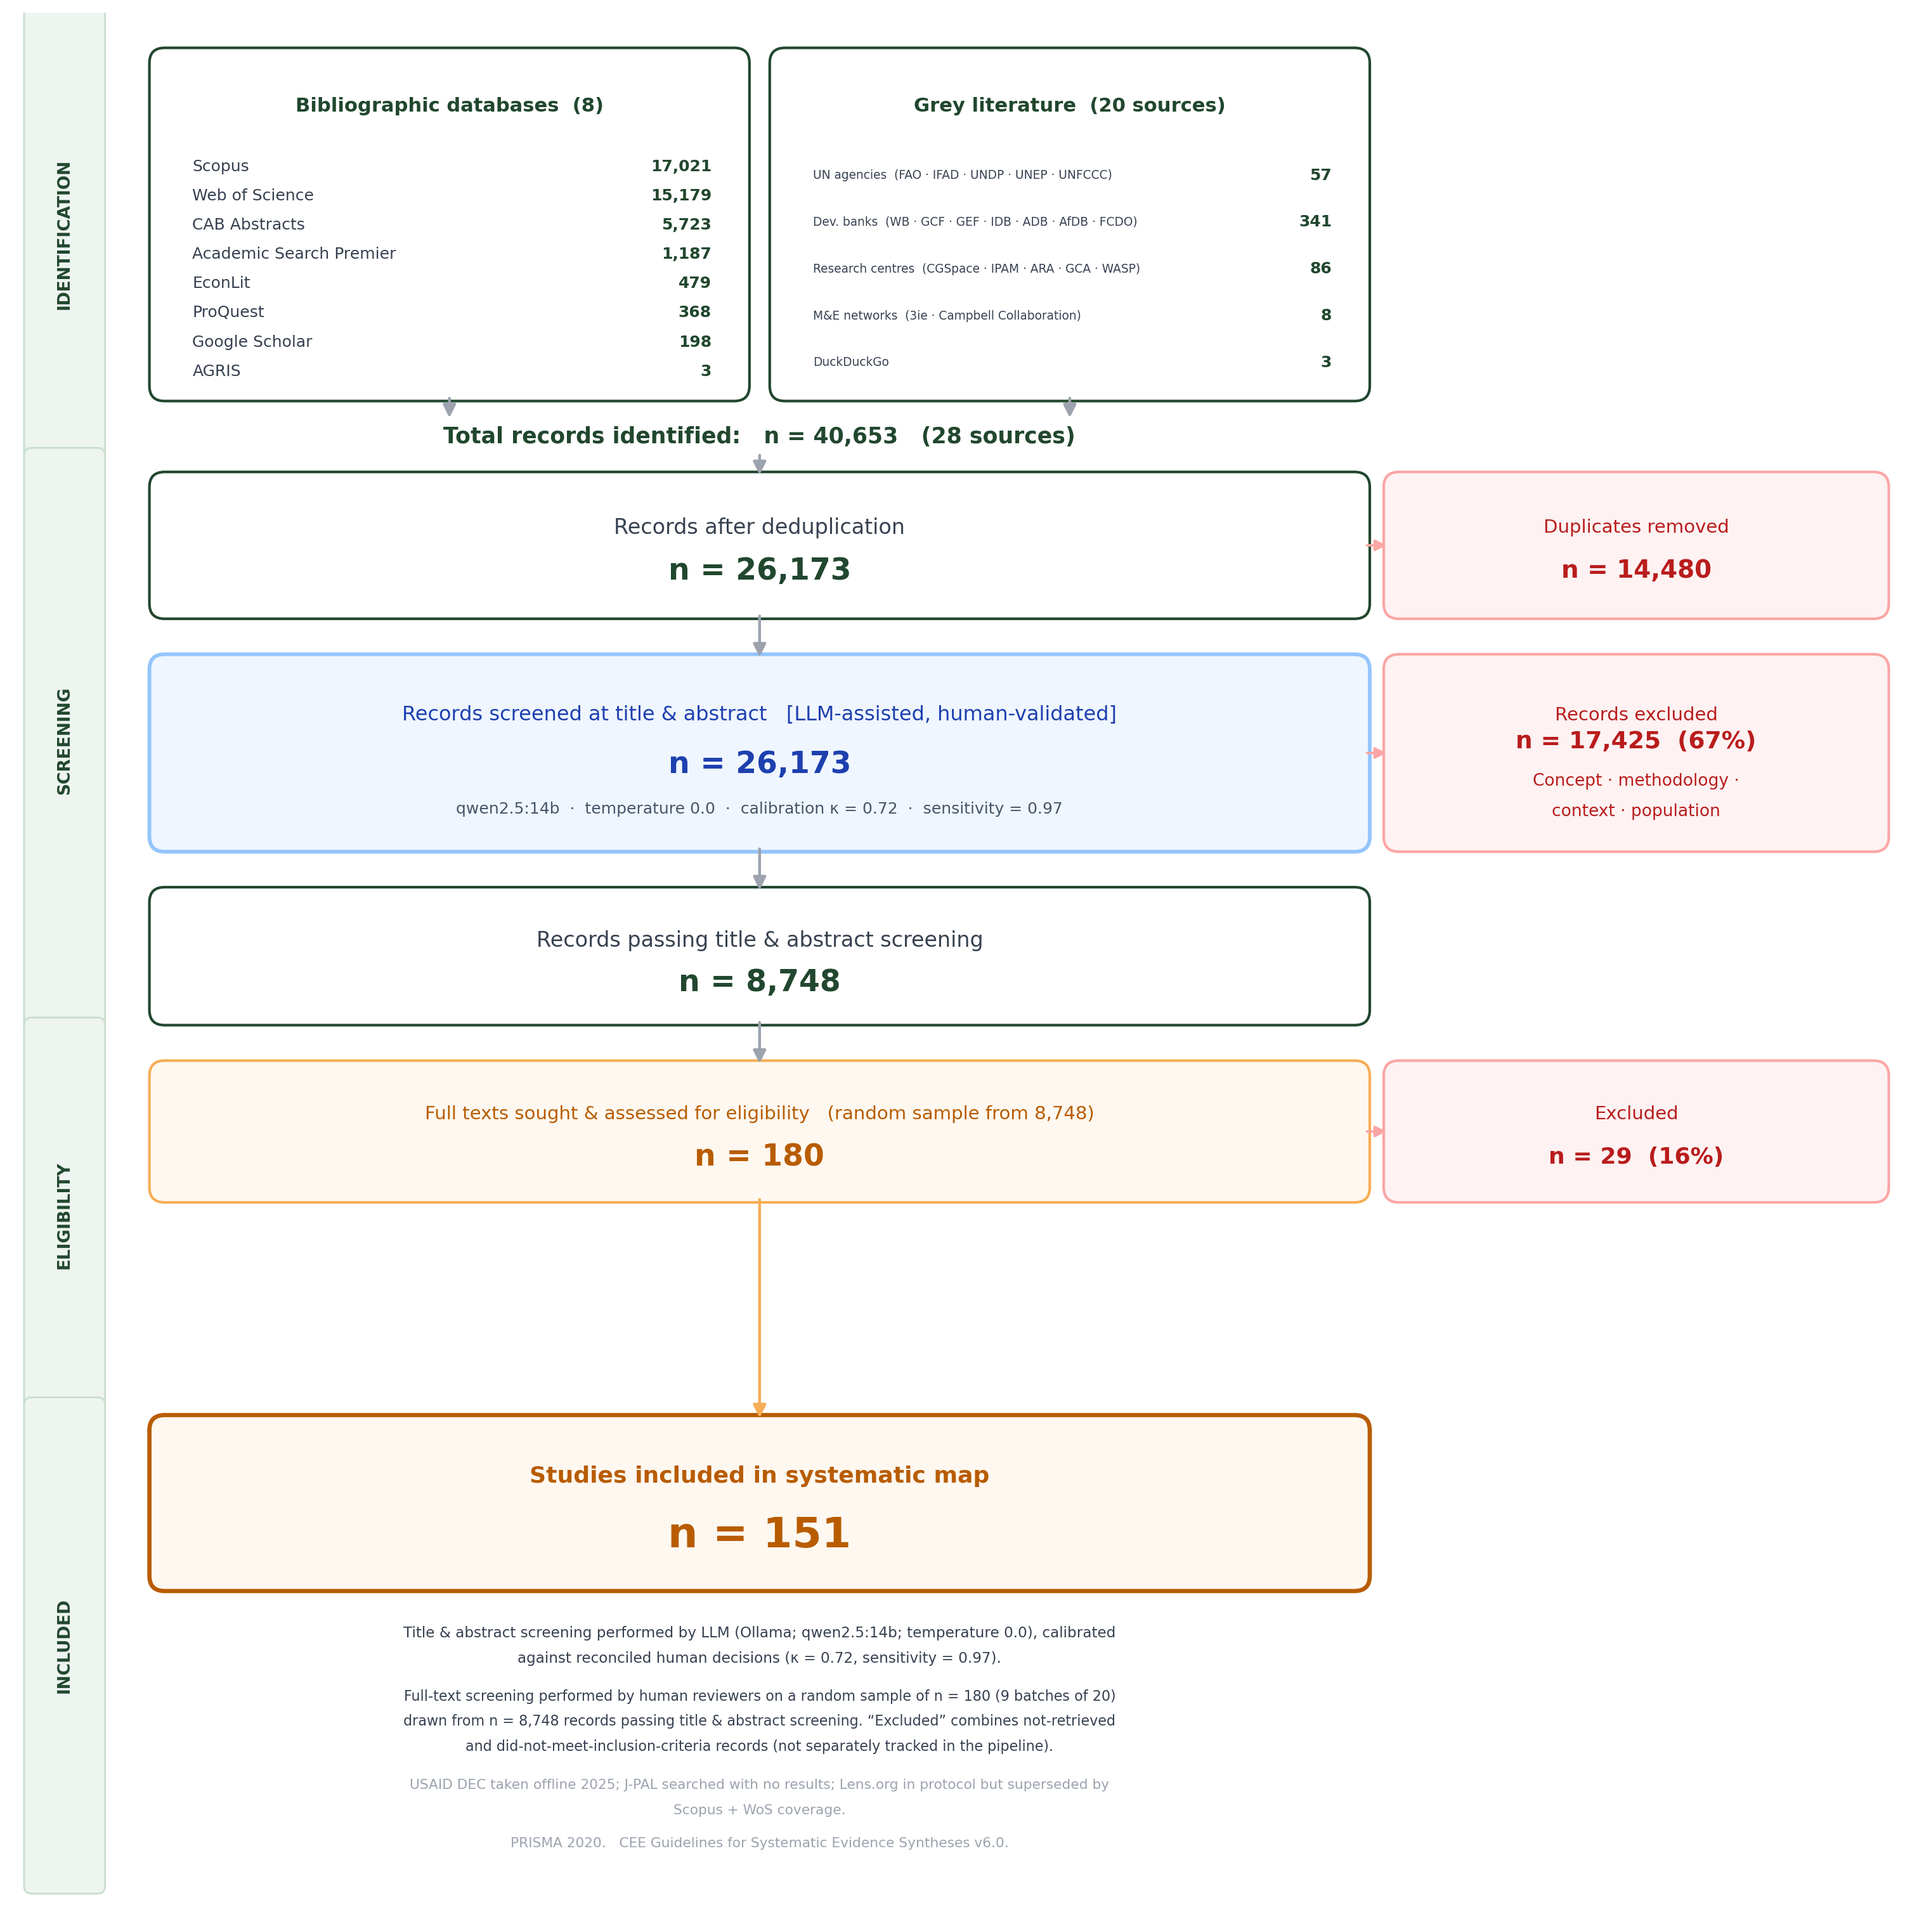
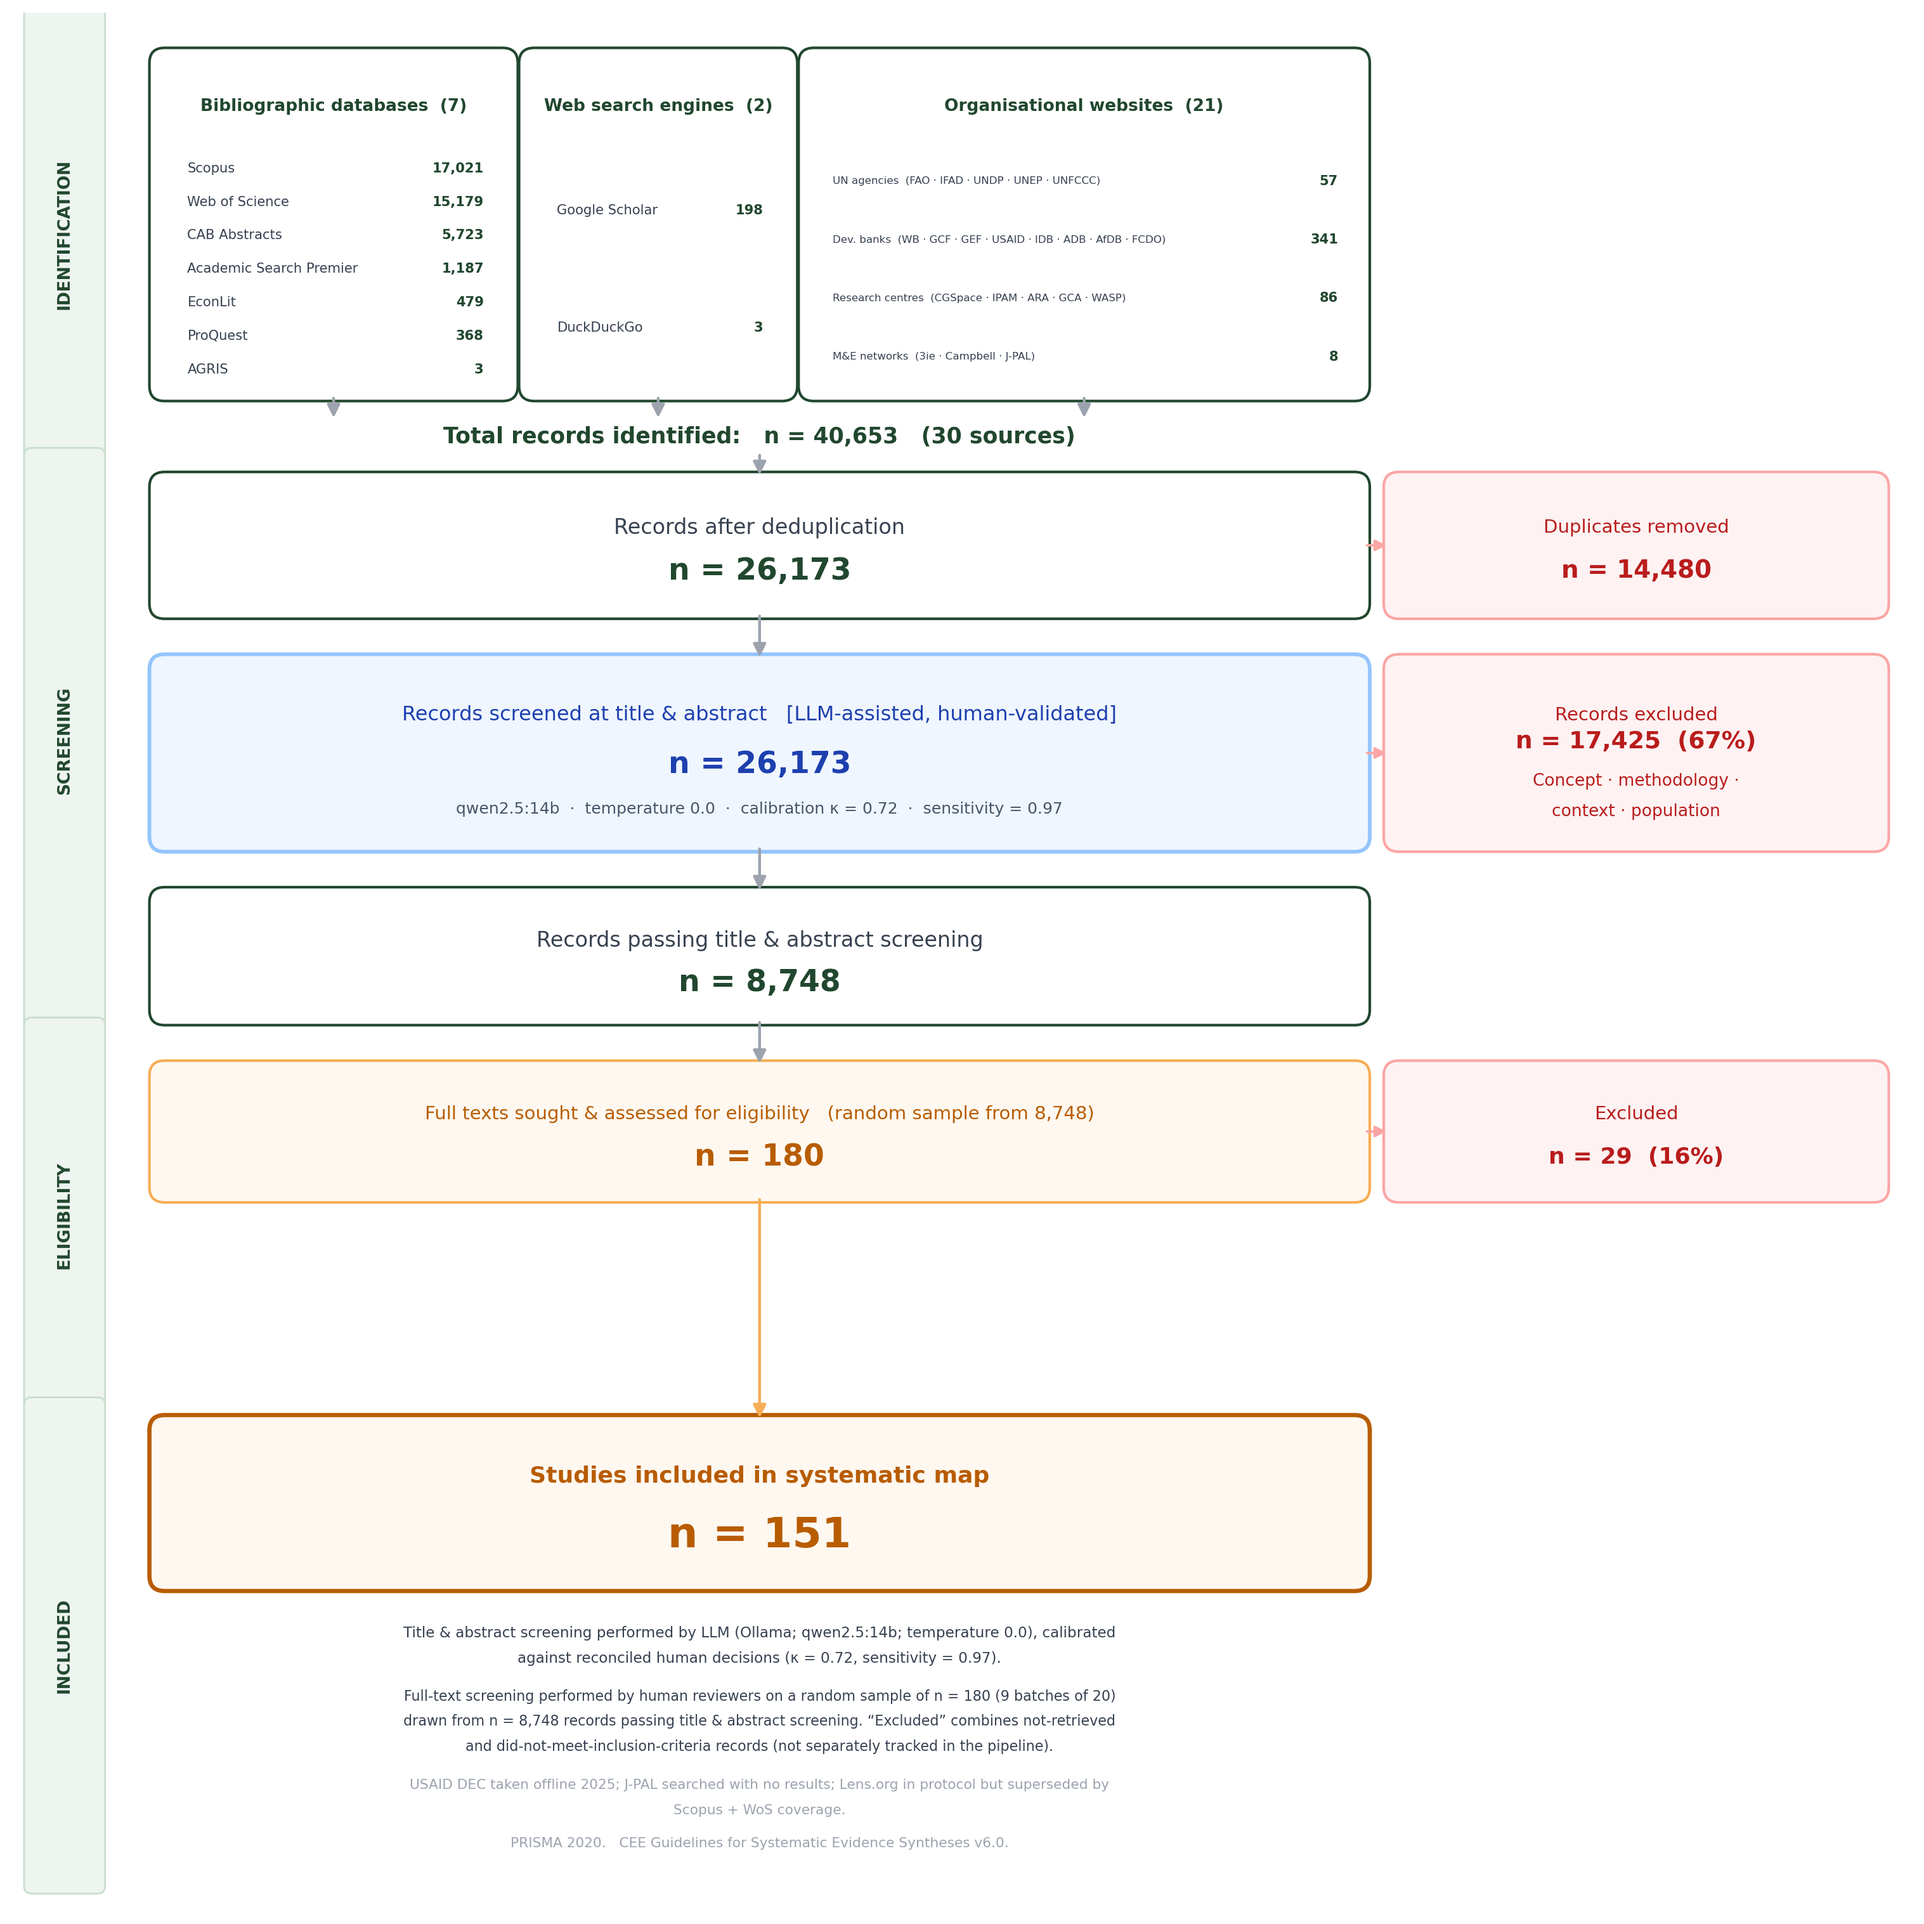
Split PRISMA identification sources into three ROSES categories
Bibliographic databases, web search engines, and organisational websites
are now shown as separate groups (7 / 2 / 21) instead of a combined
databases/grey-lit split (8 / 20), matching the methods text and ROSES
table. USAID and J-PAL (zero-yield searches) are now included in the
organisational-website source count, consistent with what was actually
searched.

diff --git a/deliverables/_gen_prisma.py b/deliverables/_gen_prisma.py
@@ -61,39 +61,51 @@ SCOPUS_RETURNED = step2b["scopus_corpus_size"]
 BY_DB = step2b["by_database_imported"]
 
 NAMED_DBS = ["Web of Science", "CAB Abstracts", "Academic Search Premier",
-             "EconLit", "ProQuest", "Google Scholar", "AGRIS"]
+             "EconLit", "ProQuest", "AGRIS"]
 db = [("Scopus", SCOPUS_RETURNED)] + [(nm, BY_DB[nm]) for nm in NAMED_DBS]
 
-# Grouping of grey-lit sources into display categories — this categorisation
-# (which source goes under which label) is a content choice; the NUMBERS are
-# always summed live from step2b_summary.json, never typed in.
+# Web-based search engines — its own ROSES/CEE category, separate from both
+# bibliographic databases and organisational websites (matches §8.3 of the
+# methods text).
+WEB_ENGINES = ["Google Scholar", "DuckDuckGo"]
+we = [(nm, BY_DB[nm]) for nm in WEB_ENGINES]
+WEB_ENGINES_TOTAL = sum(n for _, n in we)
+
+# Organisational-website groups (§8.4). Two sources — USAID and J-PAL — were
+# genuinely searched but returned zero records, so they never appear in
+# step2b_summary.json's by_database_imported dict (nothing to sum). They are
+# added back in explicitly here at n=0 so the source COUNT matches the
+# methods text (21 organisational websites), even though they contribute
+# nothing to the record TOTAL.
+ZERO_YIELD_SOURCES = {"USAID", "J-PAL"}
 GREY_LIT_GROUPS = {
     "UN agencies  (FAO · IFAD · UNDP · UNEP · UNFCCC)":
         ["FAO", "IFAD", "UNDP", "UNEP", "UNFCCC"],
-    "Dev. banks  (WB · GCF · GEF · IDB · ADB · AfDB · FCDO)":
-        ["World Bank", "GEF", "GCF", "IDB", "ADB", "AfDB", "FCDO"],
+    "Dev. banks  (WB · GCF · GEF · USAID · IDB · ADB · AfDB · FCDO)":
+        ["World Bank", "GEF", "GCF", "USAID", "IDB", "ADB", "AfDB", "FCDO"],
     "Research centres  (CGSpace · IPAM · ARA · GCA · WASP)":
         ["CGSpace (CGIAR)", "IPAM", "Adaptation Research Alliance", "GCA", "WASP"],
-    "M&E networks  (3ie · Campbell Collaboration)":
-        ["3ie", "Campbell Collaboration"],
-    "DuckDuckGo": ["DuckDuckGo"],
+    "M&E networks  (3ie · Campbell · J-PAL)":
+        ["3ie", "Campbell Collaboration", "J-PAL"],
 }
-grey_lit_keys = set(BY_DB) - set(NAMED_DBS)
+grey_lit_keys = (set(BY_DB) - set(NAMED_DBS) - set(WEB_ENGINES)) | ZERO_YIELD_SOURCES
 grouped_keys = {k for grp in GREY_LIT_GROUPS.values() for k in grp}
 assert grey_lit_keys == grouped_keys, (
-    f"Grey-lit source list in step2b_summary.json no longer matches the "
+    f"Organisational-website source list no longer matches the "
     f"GREY_LIT_GROUPS mapping in this script — new/removed source(s): "
-    f"{grey_lit_keys ^ grouped_keys}. Update GREY_LIT_GROUPS above."
+    f"{grey_lit_keys ^ grouped_keys}. Update GREY_LIT_GROUPS (and "
+    f"ZERO_YIELD_SOURCES, if a zero-record source was added/removed) above."
 )
-gl = [(label, sum(BY_DB[k] for k in keys)) for label, keys in GREY_LIT_GROUPS.items()]
+gl = [(label, sum(BY_DB.get(k, 0) for k in keys)) for label, keys in GREY_LIT_GROUPS.items()]
 GREY_LIT_TOTAL = sum(n for _, n in gl)
 
-N_DATABASES = len(db)              # 8
-N_GREY_SOURCES = len(grey_lit_keys)  # 20
-N_SOURCES = N_DATABASES + N_GREY_SOURCES
+N_DATABASES = len(db)                  # 7
+N_WEB_ENGINES = len(WEB_ENGINES)        # 2
+N_GREY_SOURCES = len(grey_lit_keys)      # 21
+N_SOURCES = N_DATABASES + N_WEB_ENGINES + N_GREY_SOURCES
 
 IDENTIFIED_TOTAL = SCOPUS_RETURNED + sum(BY_DB.values())
-assert IDENTIFIED_TOTAL == sum(n for _, n in db) + GREY_LIT_TOTAL
+assert IDENTIFIED_TOTAL == sum(n for _, n in db) + WEB_ENGINES_TOTAL + GREY_LIT_TOTAL
 
 # ── DEDUPLICATION ────────────────────────────────────────────────────────────
 # rows_total in each screening meta file = the exact record count that fed
@@ -156,11 +168,20 @@ EX  = MR + 0.35                     # = 10.95
 EW  = 3.75                          # right edge = 14.70 (< FW=15 ✓)
 EC  = EX + EW / 2                   # = 12.825
 
-# Source boxes (identification): together span exactly MX to MR, with a wider
-# gap between them for visual separation
-ID_GAP = 0.40
-AX, AW = MX, (MW - ID_GAP) / 2     # = 1.20, 4.50   right = 5.70
-BX, BW = MX + AW + ID_GAP, AW      # = 6.10, 4.50   right = 10.60
+# Source boxes (identification): three columns — bibliographic databases,
+# web-based search engines, organisational websites — together spanning
+# exactly MX to MR. Widths are uneven on purpose: the organisational-websites
+# column has the longest row labels (grouped, multi-org parenthetical lists)
+# so it gets more room; web engines only ever lists two short names so it
+# gets the least.
+ID_GAP = 0.25
+BOXES_W = MW - 2 * ID_GAP           # = 8.90  (total width to split 3 ways)
+AW = 0.30 * BOXES_W                  # bibliographic databases
+BW = 0.22 * BOXES_W                  # web search engines
+CW = BOXES_W - AW - BW               # organisational websites (remainder, largest)
+AX = MX
+BX = AX + AW + ID_GAP
+CX = BX + BW + ID_GAP
 
 # ── Vertical constants ────────────────────────────────────────────────────────
 GAP  = 0.52     # gap between consecutive boxes
@@ -275,27 +296,37 @@ band( 0.2,  4.0, "INCLUDED")
 
 bx(AX, SRC_Y, AW, SRC_H, ec=G)
 tx(AX + AW/2, SRC_Y+SRC_H-0.34, f"Bibliographic databases  ({N_DATABASES})",
-   fs=11, bold=True, c=G)
+   fs=9.5, bold=True, c=G)
 rh = (SRC_H - 0.70) / len(db)
 for i, (nm, n) in enumerate(db):
     ry = SRC_Y + SRC_H - 0.70 - (i + 0.5) * rh
-    tx(AX + 0.22, ry, nm, fs=9, c=DRK, ha="left")
-    tx(AX + AW - 0.18, ry, fmt(n), fs=9, c=G, bold=True, ha="right")
+    tx(AX + 0.18, ry, nm, fs=7.6, c=DRK, ha="left")
+    tx(AX + AW - 0.15, ry, fmt(n), fs=7.6, c=G, bold=True, ha="right")
 
 bx(BX, SRC_Y, BW, SRC_H, ec=G)
-tx(BX + BW/2, SRC_Y+SRC_H-0.34, f"Grey literature  ({N_GREY_SOURCES} sources)",
-   fs=11, bold=True, c=G)
+tx(BX + BW/2, SRC_Y+SRC_H-0.34, f"Web search engines  ({N_WEB_ENGINES})",
+   fs=9.5, bold=True, c=G)
+rhw = (SRC_H - 0.70) / len(we)
+for i, (nm, n) in enumerate(we):
+    ry = SRC_Y + SRC_H - 0.70 - (i + 0.5) * rhw
+    tx(BX + 0.18, ry, nm, fs=7.6, c=DRK, ha="left")
+    tx(BX + BW - 0.15, ry, fmt(n), fs=7.6, c=G, bold=True, ha="right")
+
+bx(CX, SRC_Y, CW, SRC_H, ec=G)
+tx(CX + CW/2, SRC_Y+SRC_H-0.34, f"Organisational websites  ({N_GREY_SOURCES})",
+   fs=9.5, bold=True, c=G)
 rh2 = (SRC_H - 0.70) / len(gl)
 for i, (nm, n) in enumerate(gl):
     ry = SRC_Y + SRC_H - 0.70 - (i + 0.5) * rh2
-    tx(BX + 0.22, ry, nm, fs=6.7, c=DRK, ha="left")
-    tx(BX + BW - 0.18, ry, fmt(n), fs=9,   c=G, bold=True, ha="right")
+    tx(CX + 0.15, ry, nm, fs=6.0, c=DRK, ha="left")
+    tx(CX + CW - 0.13, ry, fmt(n), fs=7.6, c=G, bold=True, ha="right")
 
 # Total-identified summary line
 tx(MC, NOTE_Y, f"Total records identified:   n = {fmt(IDENTIFIED_TOTAL)}   ({N_SOURCES} sources)",
    fs=12.5, bold=True, c=G)
 dn(AX + AW/2, SRC_Y, NOTE_Y + 0.05)
 dn(BX + BW/2, SRC_Y, NOTE_Y + 0.05)
+dn(CX + CW/2, SRC_Y, NOTE_Y + 0.05)
 
 
 # ═══════════════════════════════════════
